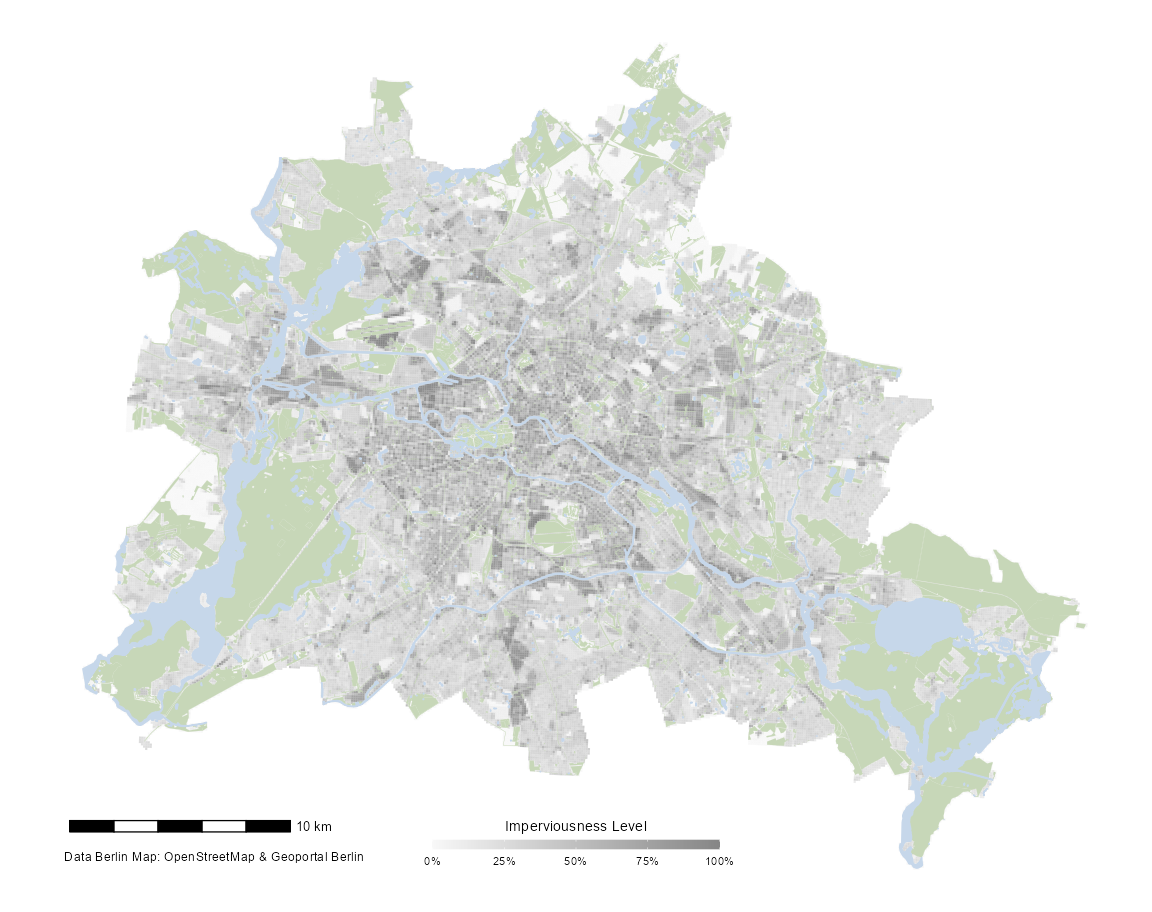
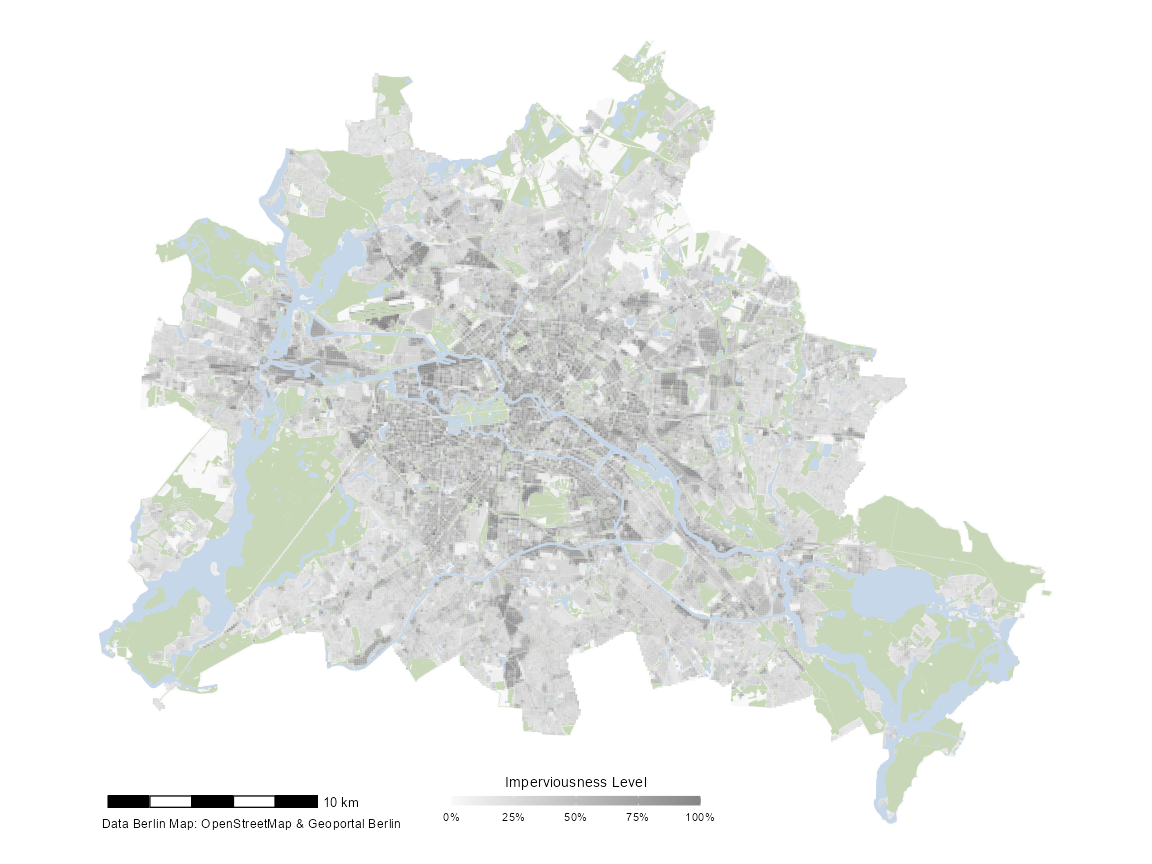
:memo: update readme

diff --git a/README.md b/README.md
@@ -60,13 +60,20 @@ base_map_imp()
 <img src="man/figures/README-example-basic-1.png" width="100%" />
 
 You can also customize the arguments, e.g. change the color intensity,
-add a globe with a locator pin and change the resolution of the raster:
+add a globe with a locator pin, change the resolution of the raster, and
+move the legend to a custom position:
 
 ``` r
-base_map_imp(color_intensity = 1, globe = TRUE, resolution = 500)
+base_map_imp(color_intensity = 1, globe = TRUE, resolution = 500,
+             legend_x = .17, legend_y = .12)
 ```
 
 <img src="man/figures/README-example-custom-1.png" width="100%" />
+
+If you think the legend is absolute, there is also an option called
+`"none"`. (The default is `"bottom"`. You can also use of the predefined
+setting `"top"` as illustrated below or a custom position as shown in
+the previous example.)
 
 <br>
 
@@ -84,7 +91,7 @@ Berlin metro stations by adding `geom_sf(data = )` to the template map:
 library(ggplot2)
 library(sf)
 
-map <- base_map_imp(color_intensity = .3, resolution = 250)
+map <- base_map_imp(color_intensity = .3, resolution = 250, legend = "top")
 
 map + geom_sf(data = sf_metro)
 ```
@@ -152,14 +159,16 @@ design):
 ``` r
 library(systemfonts) ## for title font
 
-map + 
+base_map_imp(color_intensity = 1, resolution = 250, globe = TRUE,
+             legend_x = .17, legend_y = .12) + 
   geom_sf(data = sf_metro, shape = 21, fill = "white", 
-          stroke = .4, size = 2.5) +
+          stroke = .4, size = 4) +
   ggtitle("Metro Stations in Berlin") + 
   theme(plot.title = element_text(size = 30, hjust = .5, family = "Bangers"),
         panel.grid.major = element_line(color = "white", size = .3),
         axis.text = element_text(color = "black", size = 8),
-        plot.background = element_rect(fill = "bisque", color = NA))
+        plot.background = element_rect(fill = "#fff0de", color = NA),
+        plot.margin = margin(rep(20, 4)))
 ```
 
 <img src="man/figures/README-example-styling-1.png" width="100%" />
@@ -173,11 +182,11 @@ map +
 ## Save Map
 
 Unfortunately, the size of the text elements is fixed. The best aspect
-ratio to export the map is 12x9.5 and you can save it with `ggsave()`
-for example:
+ratio to export the map is 12x9 and you can save it with `ggsave()` for
+example:
 
 ``` r
-ggsave("metro_map.pdf", width = 12, height = 9.5, device = cairo_pdf)
+ggsave("metro_map.pdf", width = 12, height = 9, device = cairo_pdf)
 ```
 
 <br>
@@ -201,13 +210,13 @@ Session Info
 
 ``` r
 Sys.time()
-#> [1] "2021-03-15 11:37:30 CET"
+#> [1] "2021-04-15 17:31:53 CEST"
 git2r::repository()
 #> Local:    main C:/Users/DataVizard/PopDynIZW Dropbox/GeoData/d6berlin
 #> Remote:   main @ origin (https://github.com/EcoDynIZW/d6berlin.git)
-#> Head:     [e30d700] 2021-03-15: :bug: fix warning font family + caption
+#> Head:     [7b65aa5] 2021-04-15: :heavy_plus_sign: add options to place the legend manually/remove the legend
 sessionInfo()
-#> R version 4.0.2 (2020-06-22)
+#> R version 4.0.4 (2021-02-15)
 #> Platform: x86_64-w64-mingw32/x64 (64-bit)
 #> Running under: Windows 10 x64 (build 19041)
 #> 
@@ -223,32 +232,33 @@ sessionInfo()
 #> [1] stats     graphics  grDevices utils     datasets  methods   base     
 #> 
 #> other attached packages:
-#> [1] systemfonts_1.0.1   stringr_1.4.0       dplyr_1.0.4        
+#> [1] systemfonts_1.0.1   stringr_1.4.0       dplyr_1.0.5        
 #> [4] sf_0.9-7            ggplot2_3.3.3       d6berlin_0.0.0.9000
 #> 
 #> loaded via a namespace (and not attached):
 #>  [1] Rcpp_1.0.6          rnaturalearth_0.1.0 lattice_0.20-41    
-#>  [4] png_0.1-7           class_7.3-17        assertthat_0.2.1   
-#>  [7] digest_0.6.27       R6_2.5.0            stats4_4.0.2       
-#> [10] evaluate_0.14       e1071_1.7-4         highr_0.8          
-#> [13] pillar_1.4.7        rlang_0.4.10        raster_3.4-5       
-#> [16] rmarkdown_2.6       textshaping_0.3.0   labeling_0.4.2     
-#> [19] webshot_0.5.2       htmlwidgets_1.5.3   munsell_0.5.0      
-#> [22] compiler_4.0.2      xfun_0.20           pkgconfig_2.0.3    
-#> [25] base64enc_0.1-3     rgeos_0.5-5         htmltools_0.5.1.1  
-#> [28] tidyselect_1.1.0    tibble_3.0.6        codetools_0.2-16   
-#> [31] mapview_2.9.0       withr_2.4.1         crayon_1.4.0       
-#> [34] grid_4.0.2          lwgeom_0.2-5        satellite_1.0.2    
-#> [37] gtable_0.3.0        lifecycle_0.2.0     DBI_1.1.1          
-#> [40] git2r_0.28.0        magrittr_2.0.1      units_0.6-7        
-#> [43] scales_1.1.1        KernSmooth_2.23-17  stringi_1.5.3      
-#> [46] farver_2.0.3        leaflet_2.0.4.1     sp_1.4-5           
-#> [49] ellipsis_0.3.1      ragg_1.1.0          generics_0.1.0     
-#> [52] vctrs_0.3.6         RColorBrewer_1.1-2  tools_4.0.2        
-#> [55] ggspatial_1.1.5     leafem_0.1.3        glue_1.4.2         
-#> [58] purrr_0.3.4         crosstalk_1.1.1     abind_1.4-5        
-#> [61] parallel_4.0.2      yaml_2.2.1          colorspace_2.0-0   
-#> [64] stars_0.5-1         classInt_0.4-3      knitr_1.31
+#>  [4] png_0.1-7           class_7.3-18        assertthat_0.2.1   
+#>  [7] digest_0.6.27       utf8_1.2.1          R6_2.5.0           
+#> [10] stats4_4.0.4        evaluate_0.14       e1071_1.7-4        
+#> [13] highr_0.8           pillar_1.5.1        rlang_0.4.10       
+#> [16] raster_3.4-5        rmarkdown_2.6       textshaping_0.3.3  
+#> [19] labeling_0.4.2      webshot_0.5.2       htmlwidgets_1.5.3  
+#> [22] munsell_0.5.0       compiler_4.0.4      xfun_0.22          
+#> [25] pkgconfig_2.0.3     base64enc_0.1-3     rgeos_0.5-5        
+#> [28] htmltools_0.5.1.1   tidyselect_1.1.0    tibble_3.1.0       
+#> [31] codetools_0.2-18    mapview_2.9.0       fansi_0.4.2        
+#> [34] withr_2.4.1         crayon_1.4.1        grid_4.0.4         
+#> [37] satellite_1.0.2     lwgeom_0.2-5        gtable_0.3.0       
+#> [40] lifecycle_1.0.0     DBI_1.1.1           git2r_0.28.0       
+#> [43] magrittr_2.0.1      units_0.6-7         scales_1.1.1       
+#> [46] KernSmooth_2.23-18  stringi_1.5.3       debugme_1.1.0      
+#> [49] farver_2.1.0        leaflet_2.0.4.1     sp_1.4-5           
+#> [52] ellipsis_0.3.1      ragg_1.1.2          generics_0.1.0     
+#> [55] vctrs_0.3.6         RColorBrewer_1.1-2  tools_4.0.4        
+#> [58] ggspatial_1.1.5     leafem_0.1.3        glue_1.4.2         
+#> [61] purrr_0.3.4         crosstalk_1.1.1     abind_1.4-5        
+#> [64] parallel_4.0.4      yaml_2.2.1          colorspace_2.0-0   
+#> [67] stars_0.5-1         classInt_0.4-3      knitr_1.31
 ```
 
 </details>
